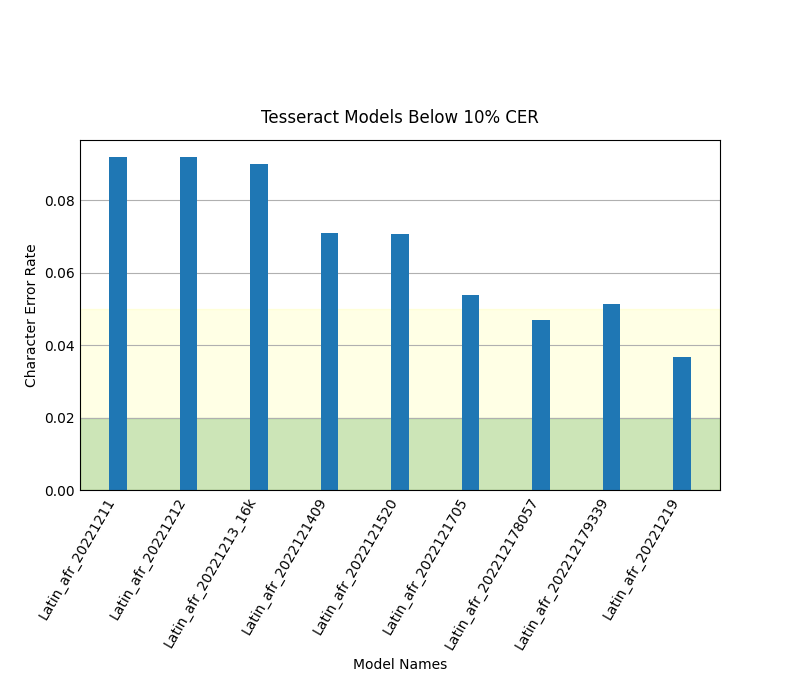
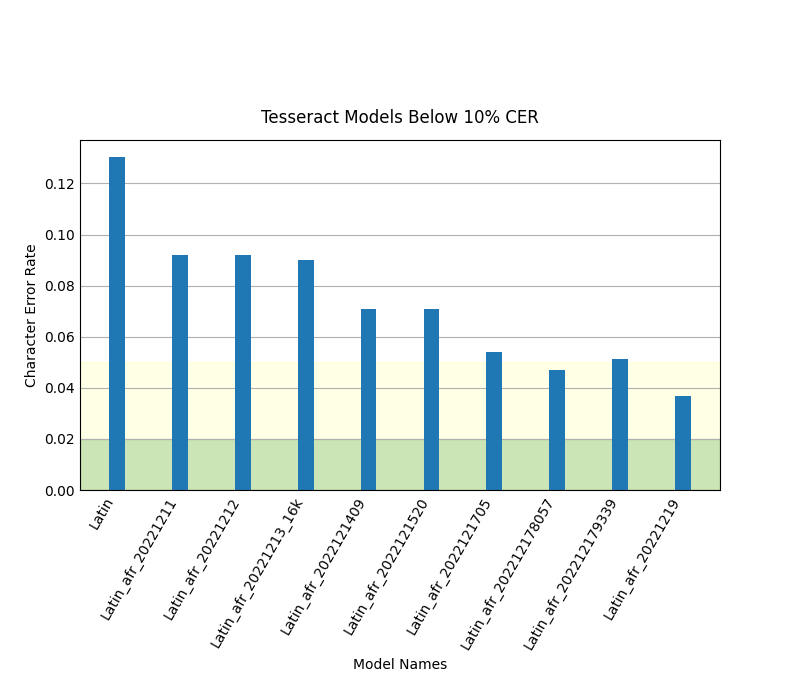
add "Latin" model to chart

diff --git a/scripts/show_chart.py b/scripts/show_chart.py
@@ -50,7 +50,7 @@ cer_limit = 0.1
 model_names_limited = []
 cer_values_limited = []
 for i, m in enumerate(model_names):
-    if cer_values[i] <= cer_limit:
+    if cer_values[i] <= cer_limit or m == 'Latin':
         model_names_limited.append(m)
         cer_values_limited.append(cer_values[i])
 
